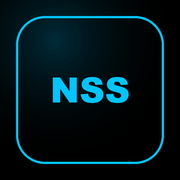
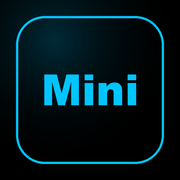
v1.2 - mark reads "Mini"; install detection can no longer dead-end
The monogram is now the APP's mark, not the user's initials: it reads "Mini"
in the top bar, the hero avatar and the sign-in gate, and no longer follows
the display name. Icons regenerated to match, so the home-screen tile agrees
with what the app shows. The 32px favicon drops to a single M - four letters
across 32 pixels is a smudge, not a mark.

Install detection fixes, from a real report (app deleted, still told it was
already installed):

- isInstalled() no longer matches display-mode: fullscreen or minimal-ui.
  Every browser reports fullscreen while merely in F11, so a maximised window
  read as installed.
- A live beforeinstallprompt now outranks the standalone hint. A browser does
  not offer to install something it already has, so the prompt is proof the
  app is gone.
- The already-installed panel is no longer terminal. Deleting an app never
  notifies an open page, and on Android removing the icon can leave the app
  installed, so a "Deleted it? Install it again" button always reveals the
  manual steps. triggerInstall() opens the dialog instead of toasting a dead
  end.

Also: the top bar collided its version badge with the theme switch at phone
widths. The title sat in a plain div with no min-width:0, so the flex item
refused to shrink below its content. The title truncates now, the badge never
does, and the redundant Dark/Light word is dropped under 600px.

Changed region(s): [[0.2222, 0.3889, 0.7778, 0.6111]]

diff --git a/index.html b/index.html
@@ -80,7 +80,7 @@ body[data-theme="light"]{color-scheme:light}
 .topbar-inner{max-width:960px;margin:0 auto;display:flex;align-items:center;justify-content:space-between;height:56px;gap:10px}
 .topbar-left{display:flex;align-items:center;gap:10px;min-width:0}
 .mono-logo{width:38px;height:38px;border-radius:8px;background:var(--black);border:1.5px solid var(--cyan);display:flex;align-items:center;justify-content:center;flex-shrink:0}
-.mono-logo span{font-family:var(--font);font-weight:700;font-size:12px;color:var(--cyan);letter-spacing:0.5px}
+.mono-logo span{font-family:var(--font);font-weight:700;font-size:12px;color:var(--cyan);letter-spacing:0.2px}
 .app-name{color:var(--cyan);font-weight:700;font-size:15px;white-space:nowrap;overflow:hidden;text-overflow:ellipsis}
 .ver-badge{font-size:10px;font-weight:700;background:var(--cyan);color:#000;padding:2px 7px;border-radius:20px;letter-spacing:0.04em;flex-shrink:0}
 .topbar-right{display:flex;align-items:center;gap:8px;flex-shrink:0}
@@ -441,6 +441,18 @@ tr.row-editing td{background:var(--info-bg) !important}
 .pf-avatar.has-photo span{display:none}
 .pf-photo-btns{display:flex;flex-wrap:wrap;gap:8px}
 
+/* Top bar at phone widths. The title sat in a plain div with no `min-width:0`,
+   so the flex item refused to shrink below its content and the version badge
+   rode out over the theme switch. The title truncates; the badge never does,
+   because it is how a release is identified on a device you cannot inspect. */
+.topbar-title{min-width:0;flex:1 1 auto}
+.app-name{display:flex;align-items:center;gap:7px;min-width:0}
+.app-name-text{overflow:hidden;text-overflow:ellipsis;white-space:nowrap;min-width:0}
+@media(max-width:600px){
+  /* The switch already says what it does — the word beside it only costs room. */
+  .toggle-label{display:none}
+}
+
 /* Install dialog. Every browser gets an answer here, including the ones that
    never fire beforeinstallprompt — which is all of iOS. */
 .ins-hero{display:flex;align-items:center;gap:14px;padding:2px 0 16px}
@@ -482,9 +494,9 @@ tr.row-editing td{background:var(--info-bg) !important}
 <div class="topbar">
   <div class="topbar-inner">
     <div class="topbar-left">
-      <div class="mono-logo"><span class="js-mono">NSS</span></div>
-      <div>
-        <div class="app-name">Mini Personal Finance Tracker <span class="ver-badge">v1.1</span></div>
+      <div class="mono-logo"><span class="js-mono">Mini</span></div>
+      <div class="topbar-title">
+        <div class="app-name"><span class="app-name-text">Mini Personal Finance Tracker</span><span class="ver-badge">v1.2</span></div>
       </div>
     </div>
     <div class="topbar-right">
@@ -515,7 +527,7 @@ tr.row-editing td{background:var(--info-bg) !important}
 <div class="hero">
   <div class="hero-inner">
     <button class="hero-avatar" id="heroAvatar" type="button" onclick="openProfile()" aria-label="Change profile photo and name">
-      <span class="js-mono">NSS</span>
+      <span class="js-mono">Mini</span>
     </button>
     <div class="hero-info">
       <button class="hero-name-btn" type="button" onclick="openProfile()" title="Edit name, subtitle and photo">
@@ -680,7 +692,7 @@ tr.row-editing td{background:var(--info-bg) !important}
     </div>
   </div>
 
-  <div class="footer">Mini Personal Finance Tracker v1.1 &mdash; <span id="footName">N. Sowdhamini Sasimurugan</span> &mdash; built by India Business International</div>
+  <div class="footer">Mini Personal Finance Tracker v1.2 &mdash; <span id="footName">N. Sowdhamini Sasimurugan</span> &mdash; built by India Business International</div>
 </div>
 
 <!-- DRAWER MENU -->
@@ -706,7 +718,7 @@ tr.row-editing td{background:var(--info-bg) !important}
   <button class="drawer-item" onclick="closeDrawer();changeBackend()"><i class="ti ti-plug-connected"></i> Backend Connection</button>
   <button class="drawer-item" onclick="signOut()"><i class="ti ti-logout"></i> Sign Out</button>
   <div class="drawer-section-label">About</div>
-  <div class="drawer-item" style="cursor:default;color:var(--text2);font-size:12px"><i class="ti ti-info-circle"></i> Version 1.1 — August 2026</div>
+  <div class="drawer-item" style="cursor:default;color:var(--text2);font-size:12px"><i class="ti ti-info-circle"></i> Version 1.2 — August 2026</div>
 </div>
 
 <!-- REPORT MODAL -->
@@ -768,10 +780,10 @@ tr.row-editing td{background:var(--info-bg) !important}
 <div class="gate" id="gate" role="dialog" aria-modal="true" aria-labelledby="gateTitle">
   <div class="gate-card">
     <div class="gate-brand">
-      <div class="mono-logo"><span class="js-mono">NSS</span></div>
+      <div class="mono-logo"><span class="js-mono">Mini</span></div>
       <div>
         <div class="gate-title" id="gateTitle">Mini Personal Finance Tracker</div>
-        <div class="gate-sub">Private ledger &middot; v1.1</div>
+        <div class="gate-sub">Private ledger &middot; v1.2</div>
       </div>
     </div>
 
@@ -853,7 +865,7 @@ tr.row-editing td{background:var(--info-bg) !important}
   </div>
   <div class="sheet-body">
     <div class="pf-preview">
-      <div class="pf-avatar" id="pfAvatar"><span id="pfMono">NSS</span></div>
+      <div class="pf-avatar" id="pfAvatar"><span id="pfMono">Mini</span></div>
       <div class="pf-photo-btns">
         <button class="s-btn" type="button" onclick="document.getElementById('pfFile').click()"><i class="ti ti-camera"></i> Choose photo</button>
         <button class="s-btn" type="button" onclick="clearPhoto()"><i class="ti ti-trash"></i> Remove</button>
@@ -1024,10 +1036,15 @@ tickClock(); setInterval(tickClock, 1000);
    option gated on that event is invisible on exactly the device she will use
    most. The option is therefore always present, and this code decides whether
    it can install for her or has to show her where the button is. */
+/* Whether the page is being viewed FROM an installed copy — which is not the
+   same question as "is it installed", and cannot be.
+   `display-mode: fullscreen` was in here and had to go: every browser reports
+   it while merely in F11 fullscreen, so a maximised window read as installed.
+   `minimal-ui` went for the same reason. Even `standalone` only says how THIS
+   page is being displayed — uninstalling never notifies an open page — so this
+   is a hint for choosing wording, never a gate on what she is allowed to do. */
 function isInstalled(){
   return window.matchMedia('(display-mode: standalone)').matches
-      || window.matchMedia('(display-mode: fullscreen)').matches
-      || window.matchMedia('(display-mode: minimal-ui)').matches
       || navigator.standalone === true;             // iOS Safari's own flag
 }
 
@@ -1114,26 +1131,45 @@ const INSTALL_STEPS = {
     note:'If it is not there, open this page in Chrome, Edge or Safari.' }
 };
 
+function installStepsHTML(spec){
+  return '<div class="ins-steps"><div class="ins-steps-h"><i class="ti ti-list-numbers"></i> '
+    + esc(spec.device) + '</div><ol>' + spec.steps.map(s => '<li>' + s + '</li>').join('') + '</ol></div>'
+    + (spec.note ? '<div class="ins-note">' + spec.note + '</div>' : '');
+}
+
+/* Show the steps regardless of what the detection thinks — the way out of a
+   stale "already installed". */
+function installAnyway(){
+  const spec = INSTALL_STEPS[installEnv()] || INSTALL_STEPS.unknown;
+  document.getElementById('insBody').innerHTML = installStepsHTML(spec);
+}
+
 function openInstall(){
   const box = document.getElementById('insBody');
-  const env = installEnv();
-  const spec = INSTALL_STEPS[env] || INSTALL_STEPS.unknown;
+  const spec = INSTALL_STEPS[installEnv()] || INSTALL_STEPS.unknown;
   document.getElementById('insDevice').textContent = spec.device;
 
-  if(isInstalled()){
-    box.innerHTML = '<div class="ins-done"><i class="ti ti-circle-check"></i>'
-      + '<div><b>Already installed.</b> You are using the installed app right now &mdash; '
-      + 'look for the <b>NSS</b> icon on your home screen or app list.</div></div>';
-  } else if(deferredPrompt){
-    // Chromium has handed us a real prompt: one tap, no instructions needed.
+  if(deferredPrompt){
+    // Checked first, and it outranks isInstalled(): a browser does not offer to
+    // install something it already has, so a live prompt is proof it is gone.
     box.innerHTML = '<button class="btn-save" type="button" style="width:100%;justify-content:center" onclick="triggerInstall()">'
       + '<i class="ti ti-download"></i> Install now</button>'
       + '<div class="ins-note">Your browser will ask you to confirm. Nothing is downloaded from an app store '
       + '&mdash; the app is this page, saved to your device.</div>';
+  } else if(isInstalled()){
+    // A hint, not a verdict. Deleting the app never tells this page, and on
+    // Android removing the home-screen icon can leave the app installed, so
+    // this must never be the last word — the steps are one tap away.
+    box.innerHTML = '<div class="ins-done"><i class="ti ti-circle-check"></i>'
+      + '<div><b>This looks like the installed app.</b> Look for the <b>Mini</b> icon '
+      + 'on your home screen or app list.</div></div>'
+      + '<button class="s-btn" type="button" style="width:100%;justify-content:center;margin-top:12px" onclick="installAnyway()">'
+      + '<i class="ti ti-refresh"></i> Deleted it? Install it again</button>'
+      + '<div class="ins-note">If you removed the app, your browser may need a moment &mdash; or a reload of this '
+      + 'page &mdash; before it offers to install it again. The button above shows the manual steps, '
+      + 'which always work.</div>';
   } else {
-    box.innerHTML = '<div class="ins-steps"><div class="ins-steps-h"><i class="ti ti-list-numbers"></i> '
-      + esc(spec.device) + '</div><ol>' + spec.steps.map(s => '<li>' + s + '</li>').join('') + '</ol></div>'
-      + (spec.note ? '<div class="ins-note">' + spec.note + '</div>' : '');
+    box.innerHTML = installStepsHTML(spec);
   }
   document.getElementById('installOverlay').classList.add('open');
   document.getElementById('installModal').classList.add('open');
@@ -1160,12 +1196,13 @@ window.addEventListener('appinstalled', () => {
   document.getElementById('installBanner').classList.remove('show');
   document.getElementById('installBtn').style.display = 'none';
   closeInstall();
-  showToast('Installed — look for the NSS icon on your home screen');
+  showToast('Installed — look for the Mini icon on your home screen');
 });
 
 function triggerInstall(){
-  if(isInstalled()){ showToast('Already installed on this device'); return; }
-  if(!deferredPrompt){ openInstall(); return; }   // no native prompt — show the steps
+  // Never dead-end on a detection that cannot be trusted: with no live prompt,
+  // open the dialog so she can read the steps and install it again herself.
+  if(!deferredPrompt){ openInstall(); return; }
   deferredPrompt.prompt();
   deferredPrompt.userChoice.then(c => {
     if(c.outcome === 'accepted') showToast('Installing…');
@@ -2647,7 +2684,7 @@ function printReport(){
     <div class="sec">${block(A.expenses,'Expenditure — full listing (paid on the spot + taken on credit)',RED)}</div>
     ${A.settles.length?`<div class="sec">${block(A.settles,'Settlements — full listing (clearing earlier credit; not counted as spend again)',CY)}</div>`:''}
     <div class="sec">${qTbl}</div>
-    <div class="foot"><span>Generated ${esc(genAt)} IST — Mini Personal Finance Tracker v1.1</span><span>${esc(PROFILE.name)}</span></div>
+    <div class="foot"><span>Generated ${esc(genAt)} IST — Mini Personal Finance Tracker v1.2</span><span>${esc(PROFILE.name)}</span></div>
   </body></html>`;
   const win=window.open('','_blank');
   if(!win){ showToast('Allow pop-ups to print, or use Download CSV','error'); return; }
@@ -2969,25 +3006,22 @@ function setOffline(on){
 
 /* ── Profile ────────────────────────────────────────────────────────
    Name, subtitle and photo belong to whoever is holding the phone, so they are
-   set in the app rather than baked into the page — which is also what lets the
-   monogram follow the name instead of being a second thing to keep in step. */
+   set in the app rather than baked into the page.
+   The monogram is the APP's mark, not the person's initials — it stays "Mini"
+   whatever the display name says, the way an app icon does. It is the fallback
+   for the avatar until she sets a photo, and it must match the launcher icons,
+   so changing it here means regenerating icon-*.png too. */
+const MONO = 'Mini';
 const PROFILE_DEFAULT = { name:'N. Sowdhamini Sasimurugan', sub:'Personal Income & Expense Ledger', photo:'' };
 let PROFILE = Object.assign({}, PROFILE_DEFAULT);
 let pfPhotoDraft = '';
-
-function initials(name){
-  const parts = String(name || '').replace(/[^A-Za-z.\s]/g, ' ').split(/[\s.]+/).filter(Boolean);
-  if(!parts.length) return 'NSS';
-  return parts.slice(0, 3).map(w => w[0].toUpperCase()).join('');
-}
 function loadProfile(){
   try{ PROFILE = Object.assign({}, PROFILE_DEFAULT, JSON.parse(localStorage.getItem(LS.profile) || '{}') || {}); }
   catch(e){ PROFILE = Object.assign({}, PROFILE_DEFAULT); }
   paintProfile();
 }
 function paintProfile(){
-  const mono = initials(PROFILE.name);
-  document.querySelectorAll('.js-mono').forEach(el => el.textContent = mono);
+  document.querySelectorAll('.js-mono').forEach(el => el.textContent = MONO);
   document.getElementById('heroName').textContent = PROFILE.name;
   document.getElementById('heroSub').textContent  = PROFILE.sub;
   const foot = document.getElementById('footName');
@@ -3010,7 +3044,7 @@ function closeProfile(){
 }
 function paintProfilePreview(){
   const av = document.getElementById('pfAvatar');
-  document.getElementById('pfMono').textContent = initials(document.getElementById('pfName').value);
+  document.getElementById('pfMono').textContent = MONO;
   av.classList.toggle('has-photo', !!pfPhotoDraft);
   av.style.backgroundImage = pfPhotoDraft ? 'url("' + pfPhotoDraft + '")' : '';
 }

diff --git a/sw.js b/sw.js
@@ -1,6 +1,6 @@
-/* Mini Personal Finance Tracker — service worker v1.1.0
+/* Mini Personal Finance Tracker — service worker v1.2.0
    Bump CACHE on every release, in step with the version badge in index.html. */
-const CACHE  = 'mpft-v1.1.0';
+const CACHE  = 'mpft-v1.2.0';
 // The icons are precached too: an installed app that opens offline still has to
 // draw its own mark in the install dialog and the task switcher.
 const ASSETS = ['./', './index.html', './manifest.json',

diff --git a/README.md b/README.md
@@ -133,8 +133,12 @@ hide the install path on exactly the device she uses most. So:
   Internet, Android Firefox, macOS Safari's *Add to Dock*, and the in-app
   webviews (Instagram, Facebook, WhatsApp) where installing is impossible and
   the only fix is *Open in browser*.
-- **Already installed** — it says so, rather than offering a button that does
-  nothing.
+- **Already installed** — it says so, but never dead-ends there. Deleting an app
+  does not notify an open page, and on Android removing the home-screen icon can
+  leave the app installed, so the detection is a hint for wording only. A
+  **Deleted it? Install it again** button always reveals the manual steps.
+  A live `beforeinstallprompt` outranks the hint entirely: a browser does not
+  offer to install something it already has.
 - **iOS Safari** also gets a permanent top-bar Install button and a one-off
   banner a week apart, because iOS gives no other hint that this is possible.
 
@@ -143,6 +147,12 @@ middle 80% for Android's adaptive shapes, and an `apple-touch-icon` — without
 that last one iOS uses a **screenshot of the page** as the home-screen tile.
 
 ## Version
+
+**v1.2** — August 2026. The mark reads **Mini** everywhere (app monogram, not
+the user's initials — it no longer follows the display name), icons regenerated
+to match. Install detection no longer treats F11 fullscreen as "installed" and
+can always be overridden. Top bar no longer collides its version badge with the
+theme switch at phone widths.
 
 **v1.1** — August 2026. Install-as-an-app flow for every browser, real PNG icon
 set, `apple-touch-icon`.
